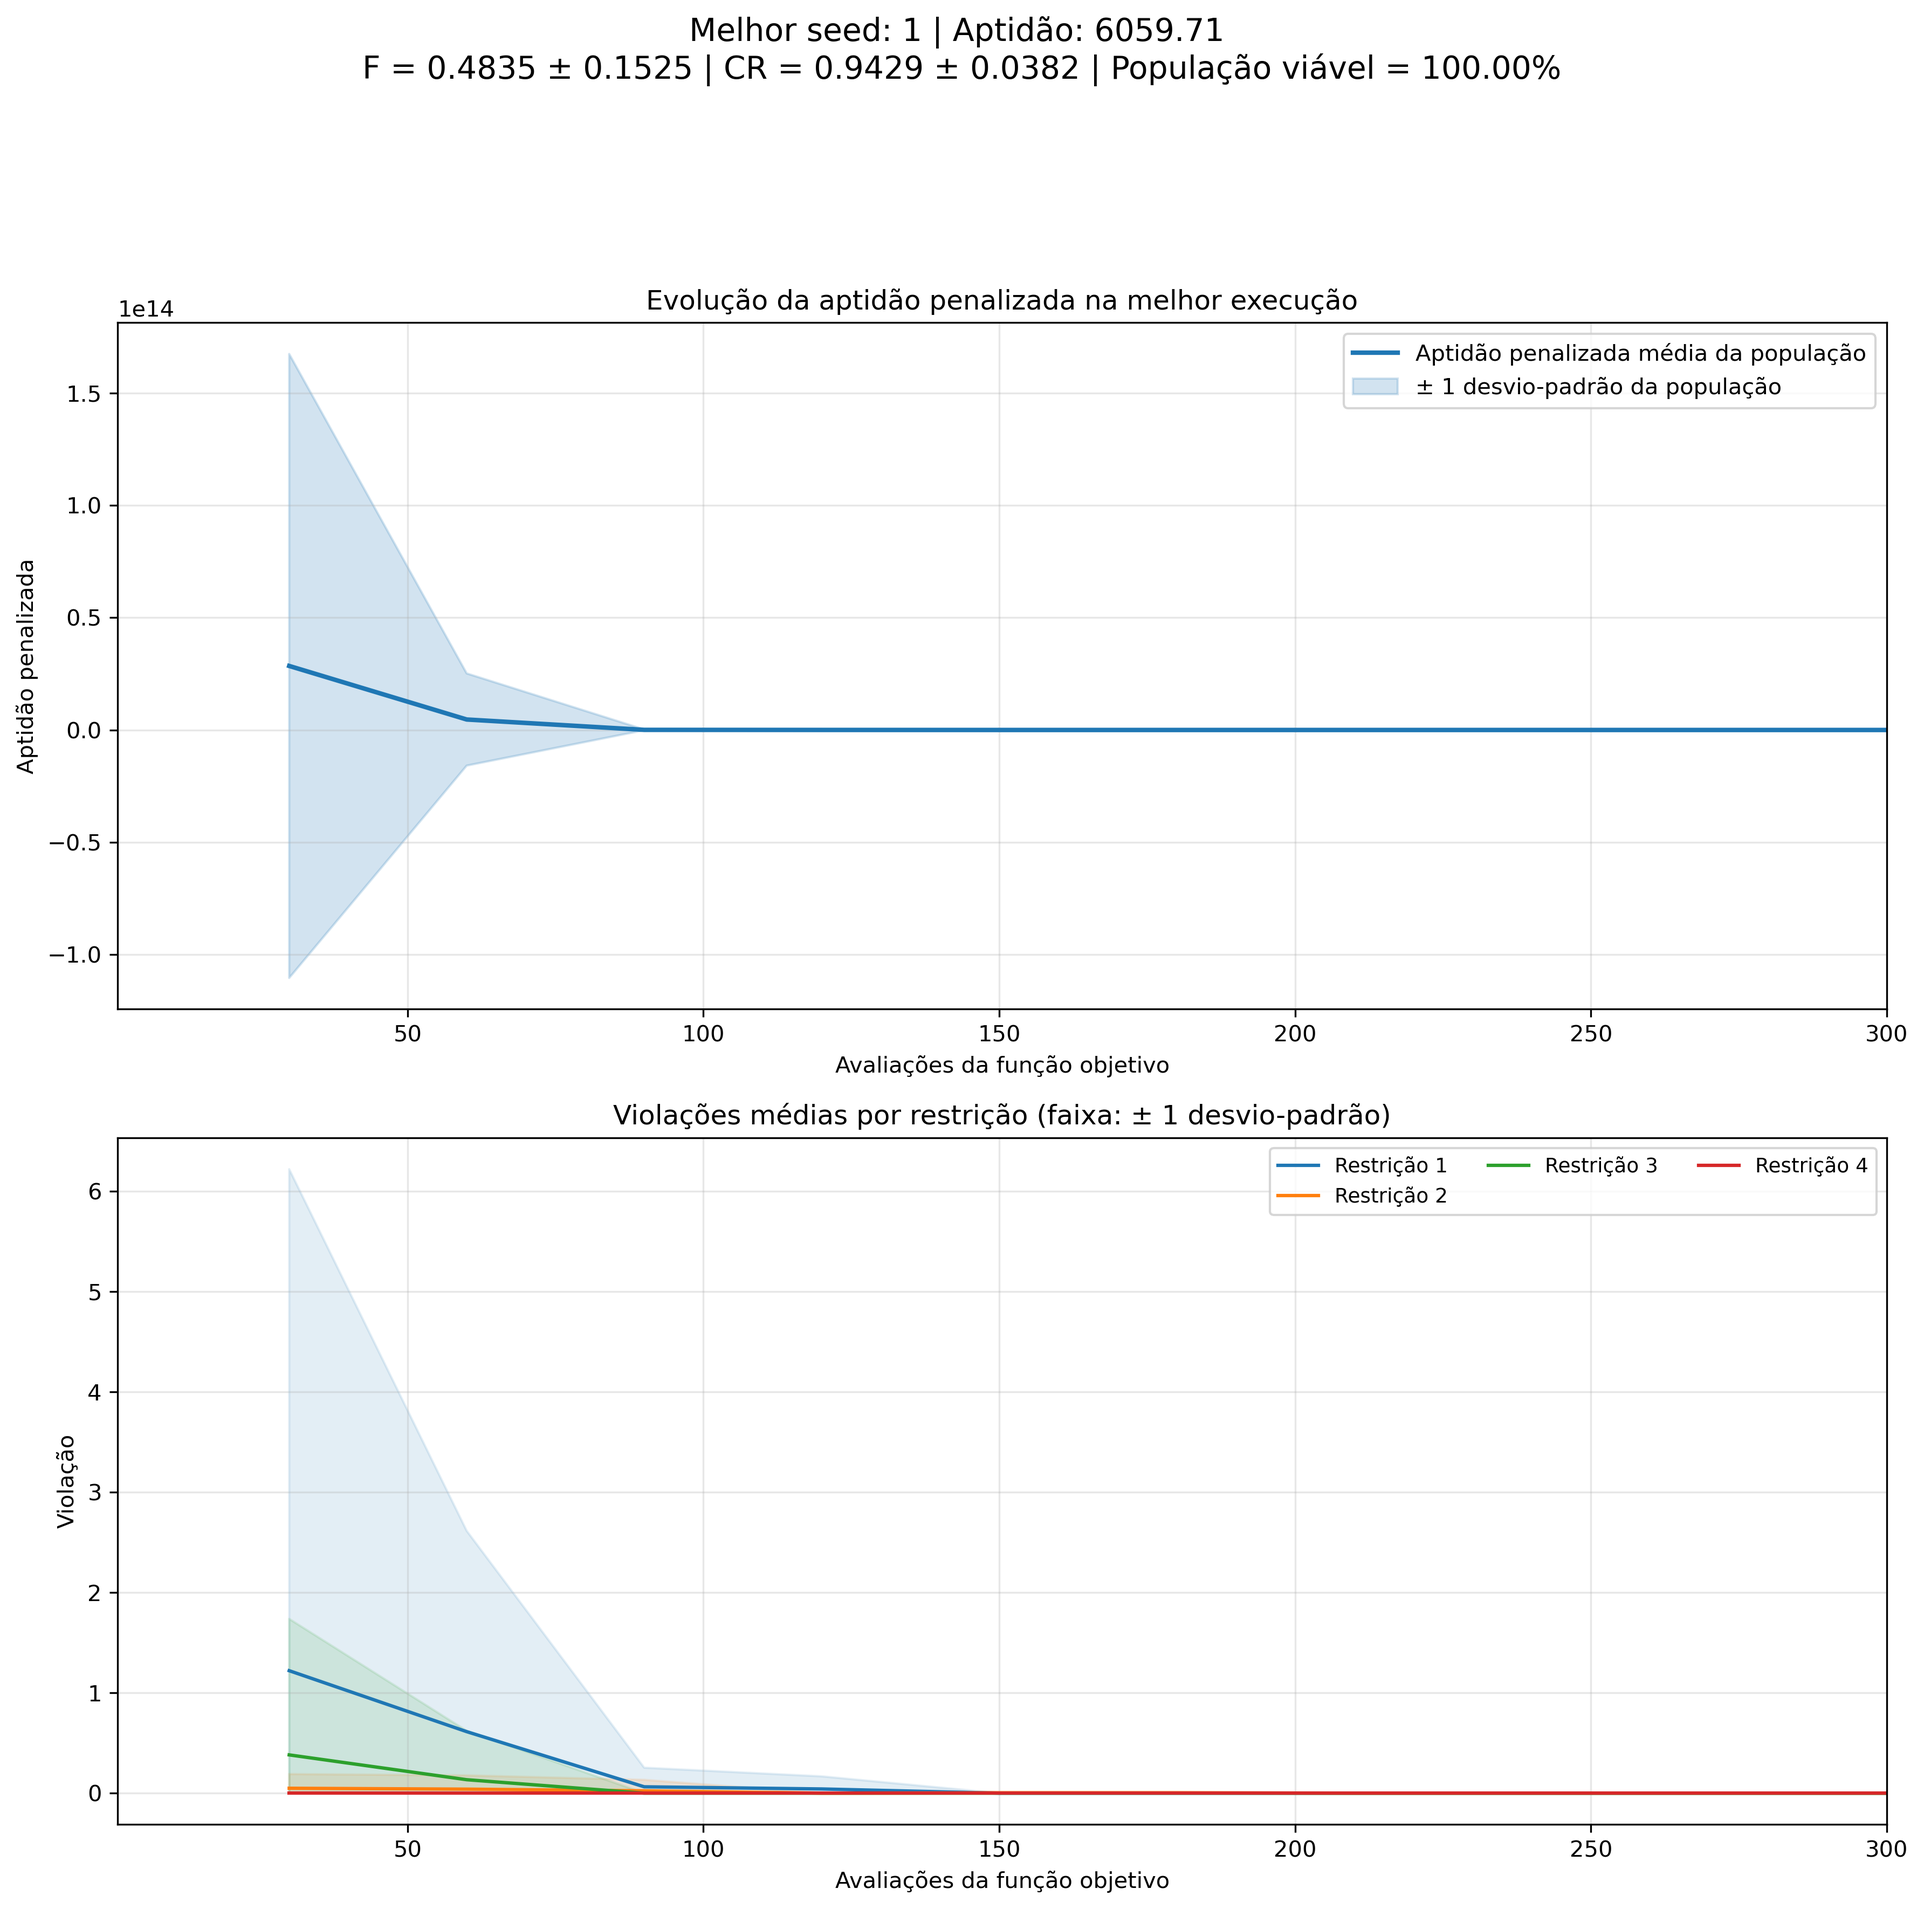
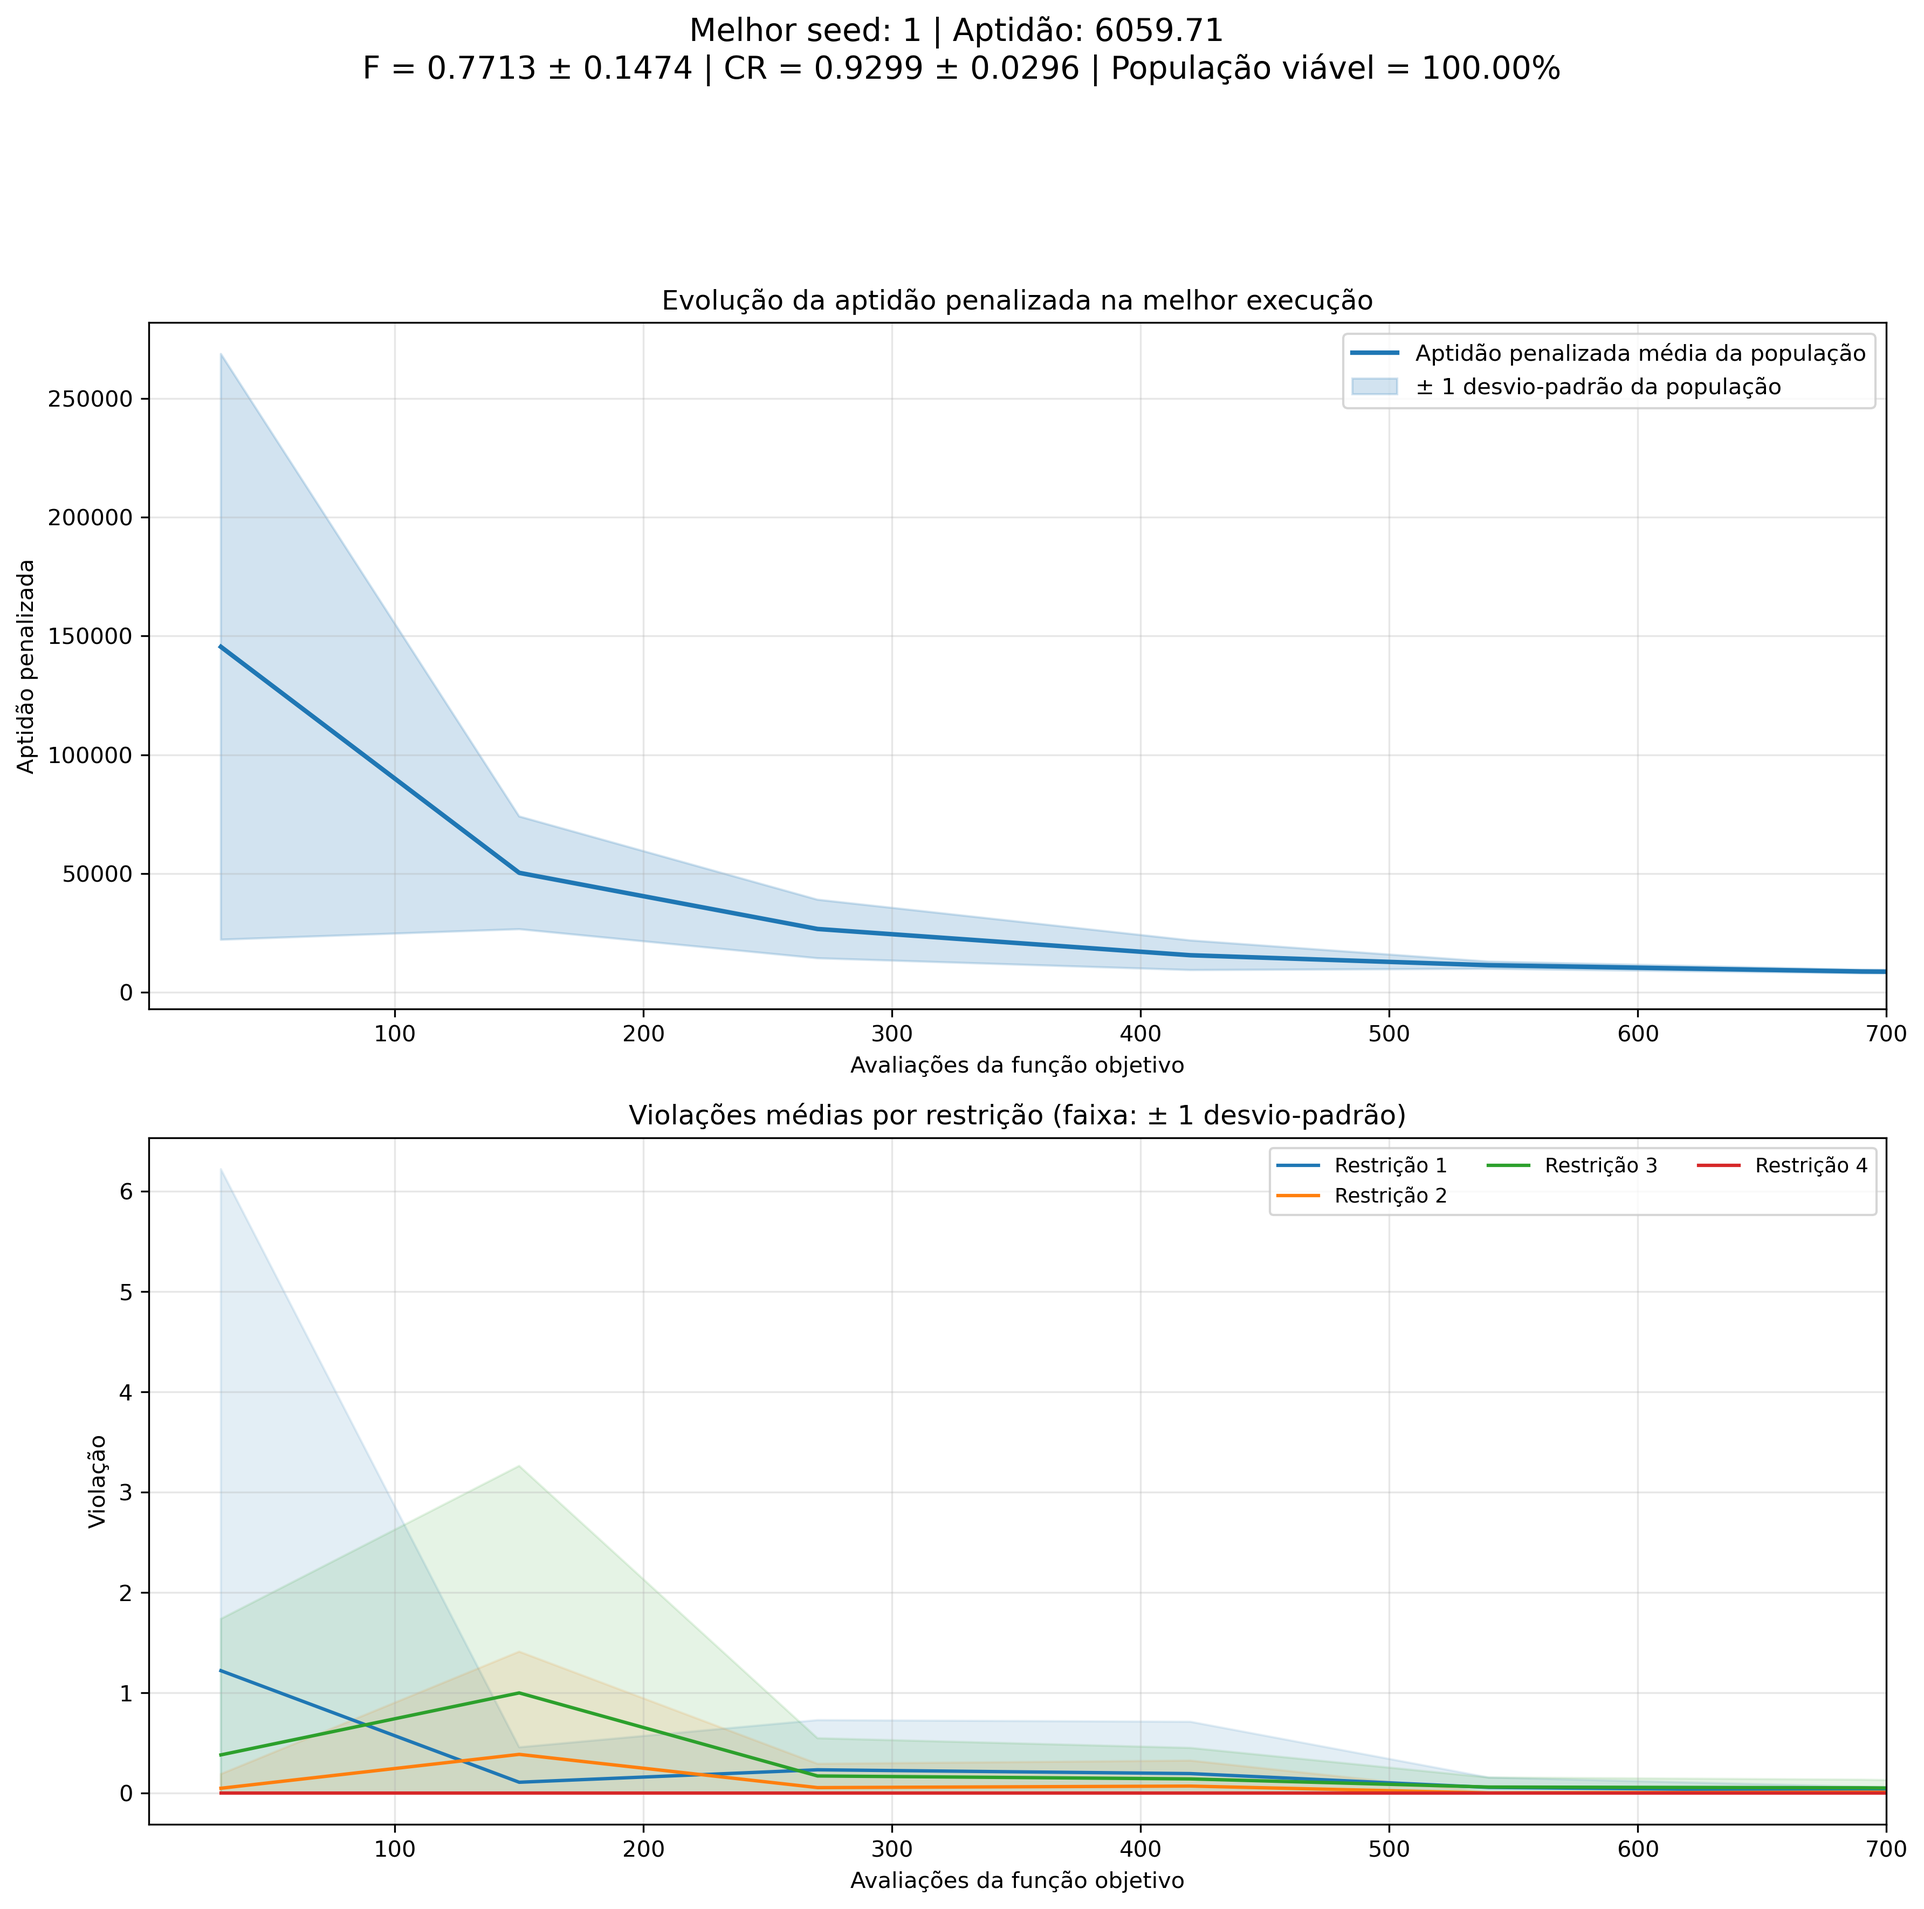
feat(vaso de pressao): mudei a penalizaçào para linear

diff --git a/work_3/pressure/plot_results.py b/work_3/pressure/plot_results.py
@@ -16,7 +16,7 @@ BASE_DIRECTORY = Path(__file__).resolve().parent
 CURVES_DIRECTORY = BASE_DIRECTORY / "evolution_curves"
 RESULTS_DIRECTORY = BASE_DIRECTORY / "results"
 PLOTS_DIRECTORY = BASE_DIRECTORY / "evolution_plots"
-MAX_PLOT_POINTS = 12000000
+MAX_PLOT_POINTS = 600
 
 CURVE_FILENAME = re.compile(
     r"seed-(?P<seed>\d+)"
@@ -249,7 +249,7 @@ def plot_configuration(configuration, seed_curves, results_directory,
     axis.set_xlabel("Avaliações da função objetivo")
     axis.set_ylabel("Aptidão penalizada")
     axis.set_title("Evolução da aptidão penalizada na melhor execução")
-    axis.set_xlim(1, 300)
+    axis.set_xlim(1, 700)
     axis.grid(True, alpha=0.3)
     axis.legend()
 
@@ -275,7 +275,7 @@ def plot_configuration(configuration, seed_curves, results_directory,
         )
         violation_axis.grid(True, alpha=0.3)
         violation_axis.legend(ncol=3, fontsize=9)
-        violation_axis.set_xlim(1, 300)
+        violation_axis.set_xlim(1, 700)
 
     figure.suptitle(
         f"Melhor seed: {best_seed} | Aptidão: "

diff --git a/work_3/pressure/de_rand_1_bin_adpt.py b/work_3/pressure/de_rand_1_bin_adpt.py
@@ -11,7 +11,7 @@ EVALUATION_STEP = 30
 NUMBER_OF_RUNS = 2
 NUMBER_OF_CONSTRAINTS = 4
 FEASIBILITY_TOLERANCE = 1.0e-8
-PENALTY_WEIGHT = 1e12
+PENALTY_WEIGHT = 1e4
 THICKNESS_INCREMENT = 0.0625
 
 # The source prints 0.00625 as the lower thickness bound while requiring
@@ -61,7 +61,7 @@ def evaluate_pressure_vessel(x, penalty_weight=PENALTY_WEIGHT):
 
     objective = pressure_vessel_objective(x)
     violations = tc.clamp(constraint_values(x), min=0.0)
-    fitness = objective + tc.sum(penalty_weight * violations**2, dim=-1)
+    fitness = objective + tc.sum(penalty_weight * violations, dim=-1)
     return fitness, objective, violations
 
 
